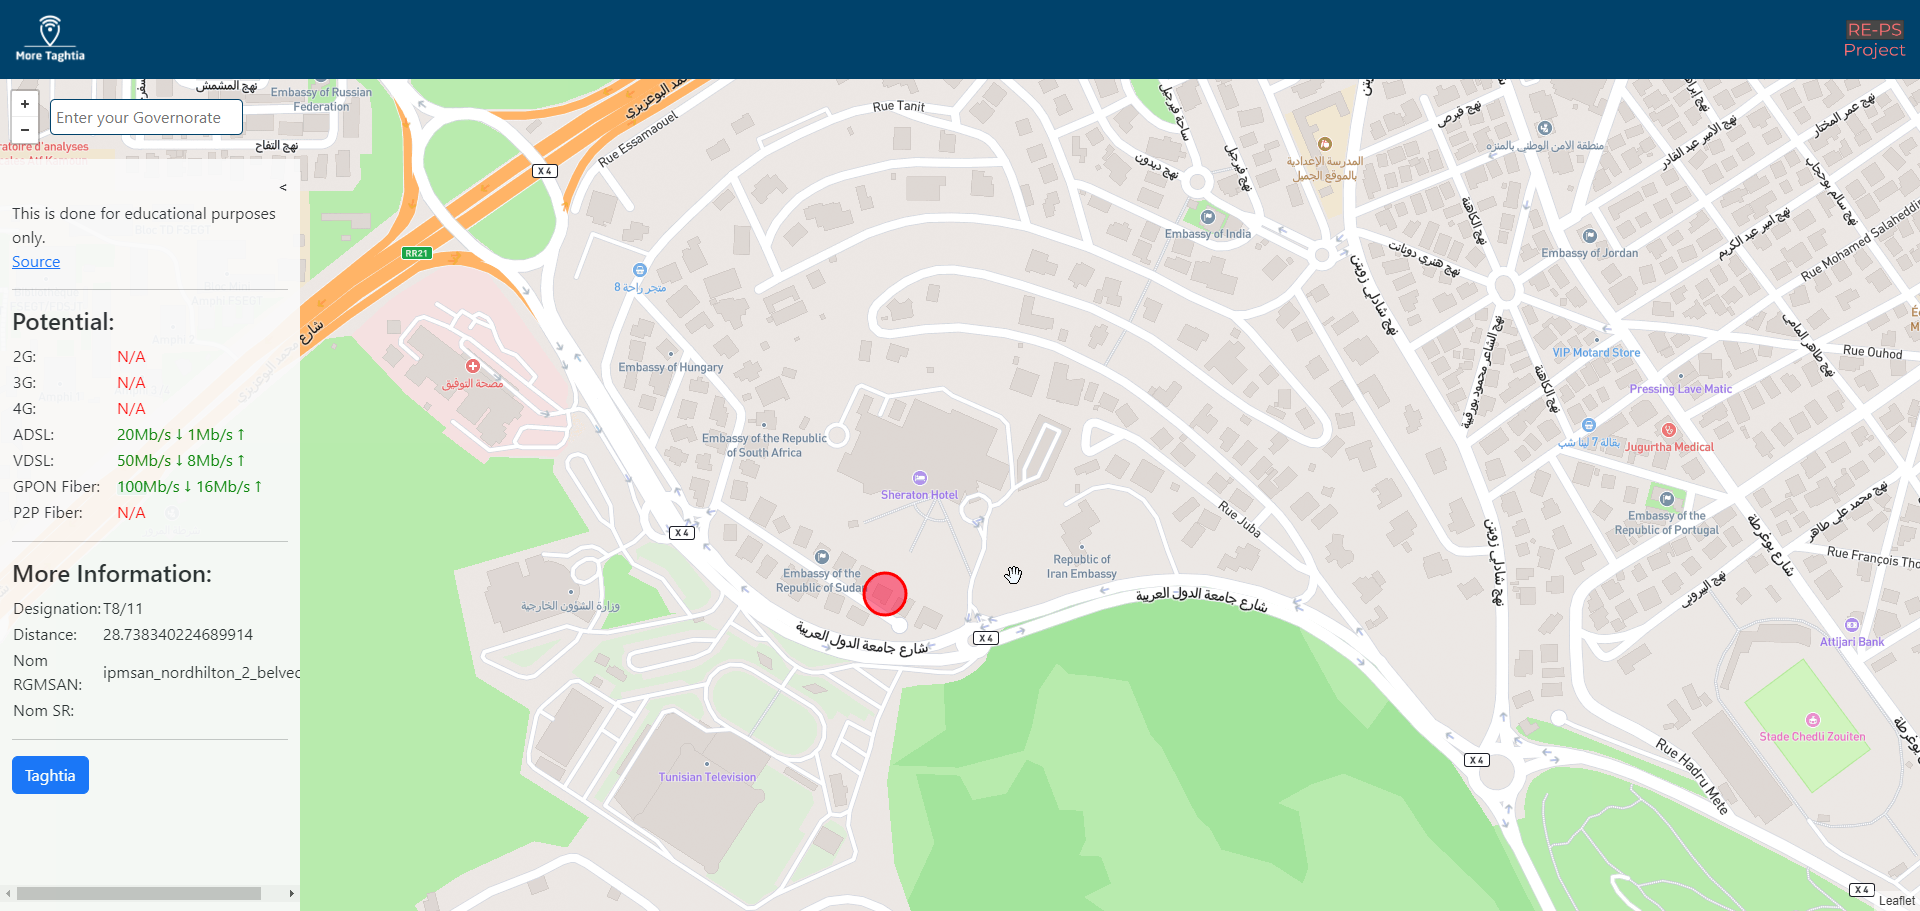
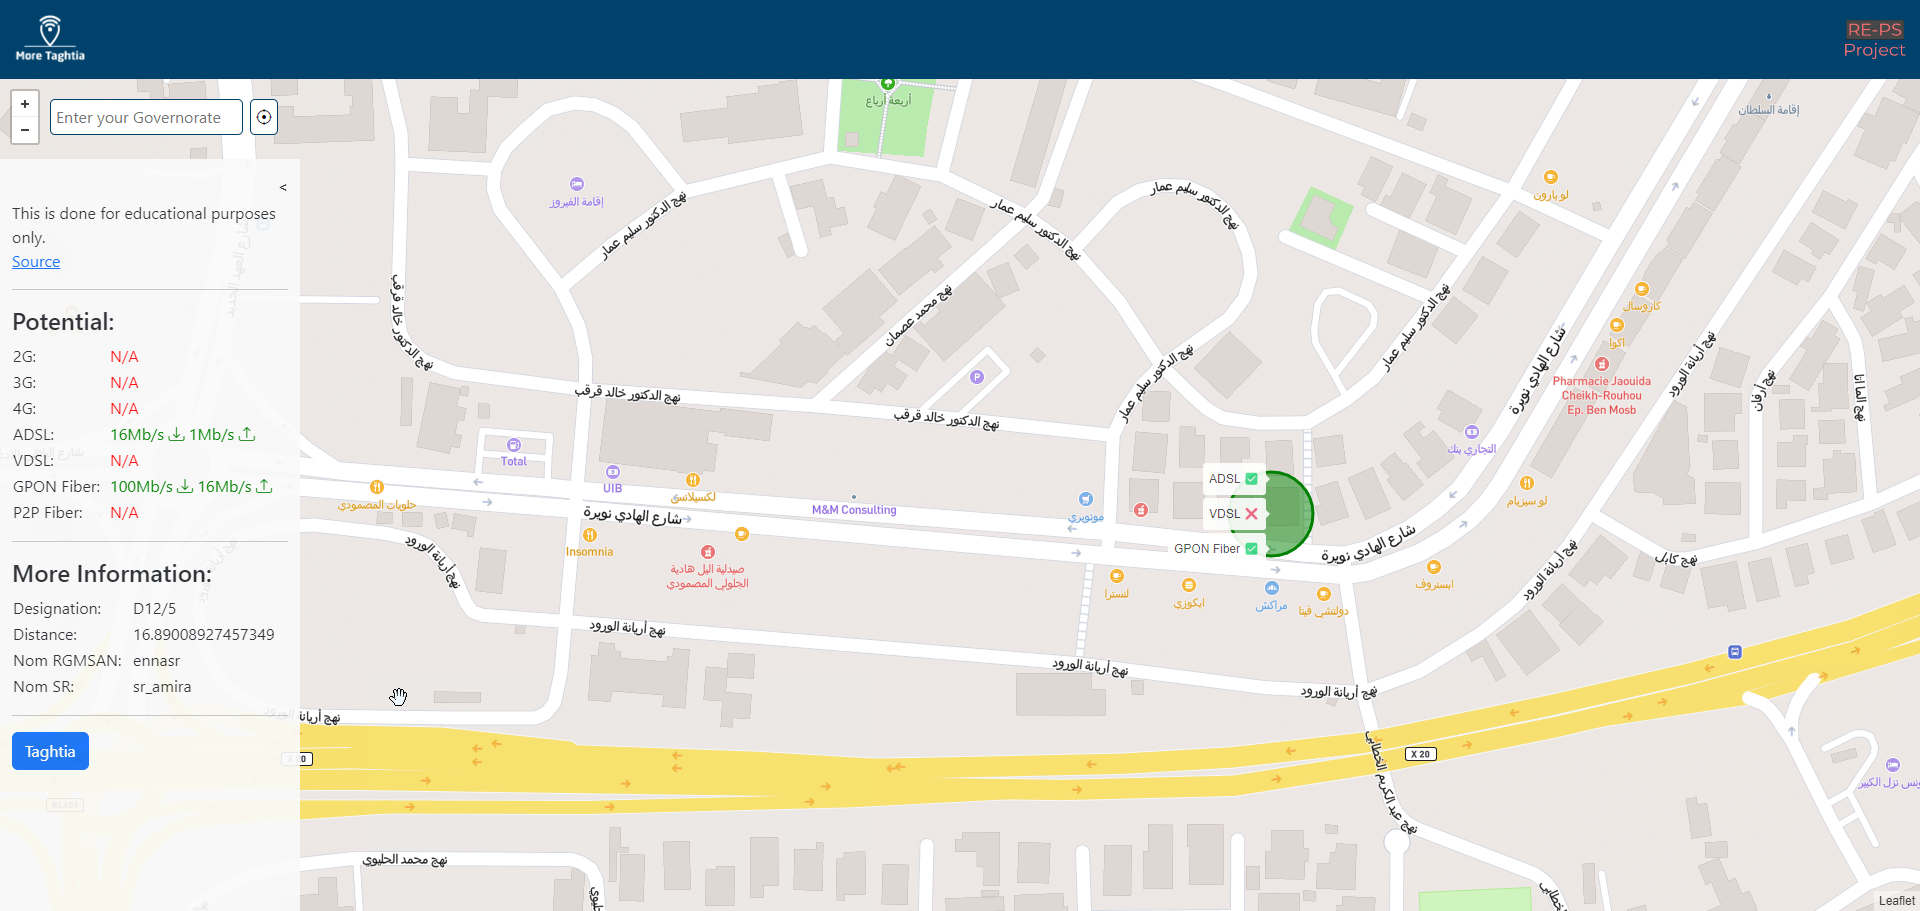
v2

diff --git a/script.js b/script.js
@@ -21,16 +21,18 @@ function showMap(err,results) {
         console.error("No results found.");
         return;
     }
-      mymap.setView([results.latlng[0], results.latlng[1]], 40);
+      mymap.setView([results.latlng[0], results.latlng[1]], 13);
   }
 
+  function zoomtocurrentlocation(){
+    mymap.locate({setView: true, maxZoom: 16});
+  }
 function search() {
     var query = document.getElementById('address').value;
     var geocoder = L.mapbox.geocoder('mapbox.places');
-    //create an object containing the query: { query: query, proximity: L.latlng(36.804914, 10.182365) }
     var options = {
         query: query,
-        country: 'TN' // Example: restrict results to a specific country
+        country: 'TN'
       };
     geocoder.query(options, showMap);
 }
@@ -45,7 +47,12 @@ mymap.on('click', addMarker);
 
 function addMarker(e){
   if (typeof circleMarker !== "undefined" ){ 
-    mymap.removeLayer(circleMarker);         
+    mymap.removeLayer(circleMarker);    
+    mymap.eachLayer(function (layer) {
+        if (layer instanceof L.Tooltip) {
+            mymap.removeLayer(layer);
+        }
+    });     
   }
   //add marker
   circleMarker = new  L.circle(e.latlng, 20, {
@@ -171,7 +178,6 @@ async function taghtia(){
         return;
     }
     var token = await getToken();
-    //POST request https://geo.tunisietelecom.tn/rsm/RSMService.svc/TaghtiaUltimate with the following Payload {TaghtiaRequest: {token: "", X: , Y: }}
     var coded = codeCoordinates(circleMarker._latlng.lng,circleMarker._latlng.lat);
     var X = coded.xCoded;
     var Y = coded.yCoded;
@@ -185,16 +191,14 @@ async function taghtia(){
         },
         body: JSON.stringify(payload),
     });
-    //change button to loading button animation (replace text by spinner of bootstrap) and disable it
-    //button id is taghtia
     var data = await response.json();
     document.getElementById("taghtia").innerHTML = 'Taghtia';
     document.getElementById("taghtia").disabled = false;
-    //once we get the response, we will use it to update table datas and show the results
     var result = data.TaghtiaUltimateResult;
     if (result.taghtia2G.Code_taghtia == 200 && result.taghtia2G.Taghtia == "OUI") {
         document.getElementById("2G").innerHTML = "Available";
         document.getElementById("2G").style.color = "green";
+        circleMarker.setStyle({color: 'green', fillColor: 'green'});
     }else{
         document.getElementById("2G").innerHTML = "N/A";
         document.getElementById("2G").style.color = "red";
@@ -202,6 +206,7 @@ async function taghtia(){
     if (result.taghtia3G.Code_taghtia == 200 && result.taghtia3G.Taghtia == "OUI") {
         document.getElementById("3G").innerHTML = "Available";
         document.getElementById("3G").style.color = "green";
+        circleMarker.setStyle({color: 'green', fillColor: 'green'});
     }else{
         document.getElementById("3G").innerHTML = "N/A";
         document.getElementById("3G").style.color = "red";
@@ -209,41 +214,54 @@ async function taghtia(){
     if (result.taghtia4G.Code_taghtia == 200 && result.taghtia4G.Taghtia == "OUI") {
         document.getElementById("4G").innerHTML = "Available";
         document.getElementById("4G").style.color = "green";
+        circleMarker.setStyle({color: 'green', fillColor: 'green'});
     }else{
         document.getElementById("4G").innerHTML = "N/A";
         document.getElementById("4G").style.color = "red";
     }
     if (result.taghtiaADSLVDSL.taghtiaADSL.Code_taghtia == 200 && result.taghtiaADSLVDSL.taghtiaADSL.Taghtia == "OUI") {
-        result.taghtiaADSLVDSL.taghtiaADSL.Debit += " ↓ 1Mb/s ↑";
+        result.taghtiaADSLVDSL.taghtiaADSL.Debit += " <i class='bi bi-download'></i> 1Mb/s <i class='bi bi-upload'></i> ";
         document.getElementById("ADSL").innerHTML = result.taghtiaADSLVDSL.taghtiaADSL.Debit;
         document.getElementById("ADSL").style.color = "green";
+        circleMarker.setStyle({color: 'green', fillColor: 'green'});
+        circleMarker.bindTooltip("ADSL ✅", {permanent: true, className: "ADSLg", offset: [0, -35] });
     }else{
         document.getElementById("ADSL").innerHTML = "N/A";
         document.getElementById("ADSL").style.color = "red";
+        circleMarker.bindTooltip("ADSL ❌", {permanent: true, className: "ADSLb", offset: [0, -35] });
     }
     if (result.taghtiaADSLVDSL.taghtiaVDSL.Code_taghtia == 200 && result.taghtiaADSLVDSL.taghtiaVDSL.Taghtia == "OUI") {
         result.taghtiaADSLVDSL.taghtiaVDSL.Debit = result.taghtiaADSLVDSL.taghtiaVDSL.Debit.replace("Down/", "Down");
-        result.taghtiaADSLVDSL.taghtiaVDSL.Debit = result.taghtiaADSLVDSL.taghtiaVDSL.Debit.replace("Down", "↓");
-        result.taghtiaADSLVDSL.taghtiaVDSL.Debit = result.taghtiaADSLVDSL.taghtiaVDSL.Debit.replace("Up", "↑");
+        result.taghtiaADSLVDSL.taghtiaVDSL.Debit = result.taghtiaADSLVDSL.taghtiaVDSL.Debit.replace("Down", "<i class='bi bi-download'></i>");
+        result.taghtiaADSLVDSL.taghtiaVDSL.Debit = result.taghtiaADSLVDSL.taghtiaVDSL.Debit.replace("Up", "<i class='bi bi-upload'></i>");
         document.getElementById("VDSL").innerHTML = result.taghtiaADSLVDSL.taghtiaVDSL.Debit;
         document.getElementById("VDSL").style.color = "green";
+        circleMarker.setStyle({color: 'green', fillColor: 'green'});
+        circleMarker.bindTooltip("VDSL ✅", {permanent: true, className: "VDSLg", offset: [0, 0] });
+        
     }else{
         document.getElementById("VDSL").innerHTML = "N/A";
         document.getElementById("VDSL").style.color = "red";
+        circleMarker.bindTooltip("VDSL ❌", {permanent: true, className: "VDSLb", offset: [0, 0] });
     }
     if (result.taghtiaGPON.Code_taghtia == 200 && result.taghtiaGPON.Message_taghtia == "OK" && result.taghtiaGPON.Taghtia == "OUI") {
         result.taghtiaGPON.Debit = result.taghtiaGPON.Debit.replace("Down/", "Down");
-        result.taghtiaGPON.Debit = result.taghtiaGPON.Debit.replace("Down", "↓");
-        result.taghtiaGPON.Debit = result.taghtiaGPON.Debit.replace("Up", "↑");
+        result.taghtiaGPON.Debit = result.taghtiaGPON.Debit.replace("Down", "<i class='bi bi-download'></i>");
+        result.taghtiaGPON.Debit = result.taghtiaGPON.Debit.replace("Up", "<i class='bi bi-upload'></i>");
         document.getElementById("GPONFiber").innerHTML = result.taghtiaGPON.Debit;
         document.getElementById("GPONFiber").style.color = "green";
+        circleMarker.setStyle({color: 'green', fillColor: 'green'});
+        //add text inside the CircleMarker saying GPON
+        circleMarker.bindTooltip("GPON Fiber ✅", {permanent: true, className: "GPONg", offset: [0, 35] });
     }else{
         document.getElementById("GPONFiber").innerHTML = "N/A";
         document.getElementById("GPONFiber").style.color = "red";
+        circleMarker.bindTooltip("GPON Fiber ❌", {permanent: true, className: "GPONb", offset: [0, 35] });
     }
     if (result.taghtiaFibreP2P.Code_taghtia == 200) {
         document.getElementById("P2PFiber").innerHTML = "Available";
         document.getElementById("P2PFiber").style.color = "green";
+        circleMarker.setStyle({color: 'green', fillColor: 'green'});
     } else{
         document.getElementById("P2PFiber").innerHTML = "N/A";
         document.getElementById("P2PFiber").style.color = "red";

diff --git a/index.html b/index.html
@@ -10,6 +10,7 @@
     	<script src="https://code.jquery.com/jquery-3.7.1.min.js" integrity="sha256-/JqT3SQfawRcv/BIHPThkBvs0OEvtFFmqPF/lYI/Cxo=" crossorigin="anonymous"></script>
         <script src='https://api.mapbox.com/mapbox.js/v3.3.1/mapbox.js'></script>
         <link href='https://api.mapbox.com/mapbox.js/v3.3.1/mapbox.css' rel='stylesheet' />
+        <link rel="stylesheet" href="https://cdn.jsdelivr.net/npm/bootstrap-icons@1.11.2/font/bootstrap-icons.min.css">
     	<script id="search-js" defer src="https://api.mapbox.com/search-js/v1.0.0-beta.18/web.js"></script>
     	<link href='style.css' rel='stylesheet' />
     </head>
@@ -50,31 +51,31 @@
             <table width="100%">
                 <tr>
                     <td>2G:</td>
-                    <td style="color: red;" id="2G">N/A</td>
+                    <td style="color: orange;" id="2G">N/A</td>
                 </tr>
                 <tr>
                     <td>3G:</td>
-                    <td style="color: red;" id="3G">N/A</td>
+                    <td style="color: orange;" id="3G">N/A</td>
                 </tr>
                 <tr>
                     <td>4G:</td>
-                    <td style="color: red;" id="4G">N/A</td>
+                    <td style="color: orange;" id="4G">N/A</td>
                 </tr>
                 <tr>
                     <td>ADSL:</td>
-                    <td style="color: red;" id="ADSL">N/A</td>
+                    <td style="color: orange;" id="ADSL">N/A</td>
                 </tr>
                 <tr>
                     <td>VDSL:</td>
-                    <td style="color: red;" id="VDSL">N/A</td>
+                    <td style="color: orange;" id="VDSL">N/A</td>
                 </tr>
                 <tr>
                     <td>GPON Fiber:</td>
-                    <td style="color: red;" id="GPONFiber">N/A</td>
+                    <td style="color: orange;" id="GPONFiber">N/A</td>
                 </tr>
                 <tr>
                     <td>P2P Fiber:</td>
-                    <td style="color: red;" id="P2PFiber">N/A</td>
+                    <td style="color: orange;" id="P2PFiber">N/A</td>
                 </tr>
             </table>
         </div>
@@ -84,7 +85,7 @@
      </div>
     </div>
     <input style="position: absolute; z-index: 1; margin-left: 50px; margin-top: 20px; border-radius: 5px; border: 1px solid #00426b; padding: 5px; background-color: #ffffff" type="text" id="address" placeholder="Enter your Governorate">
-    
+    <button style="position: absolute; z-index: 1; margin-left: 250px; margin-top: 20px; border-radius: 5px; border: 1px solid #00426b; padding: 5px; background-color: #ffffff" onclick="zoomtocurrentlocation();"><i class="bi bi-crosshair"></i></button>
     <div id="map-display"></div>
         
     <script src='script.js'></script>
